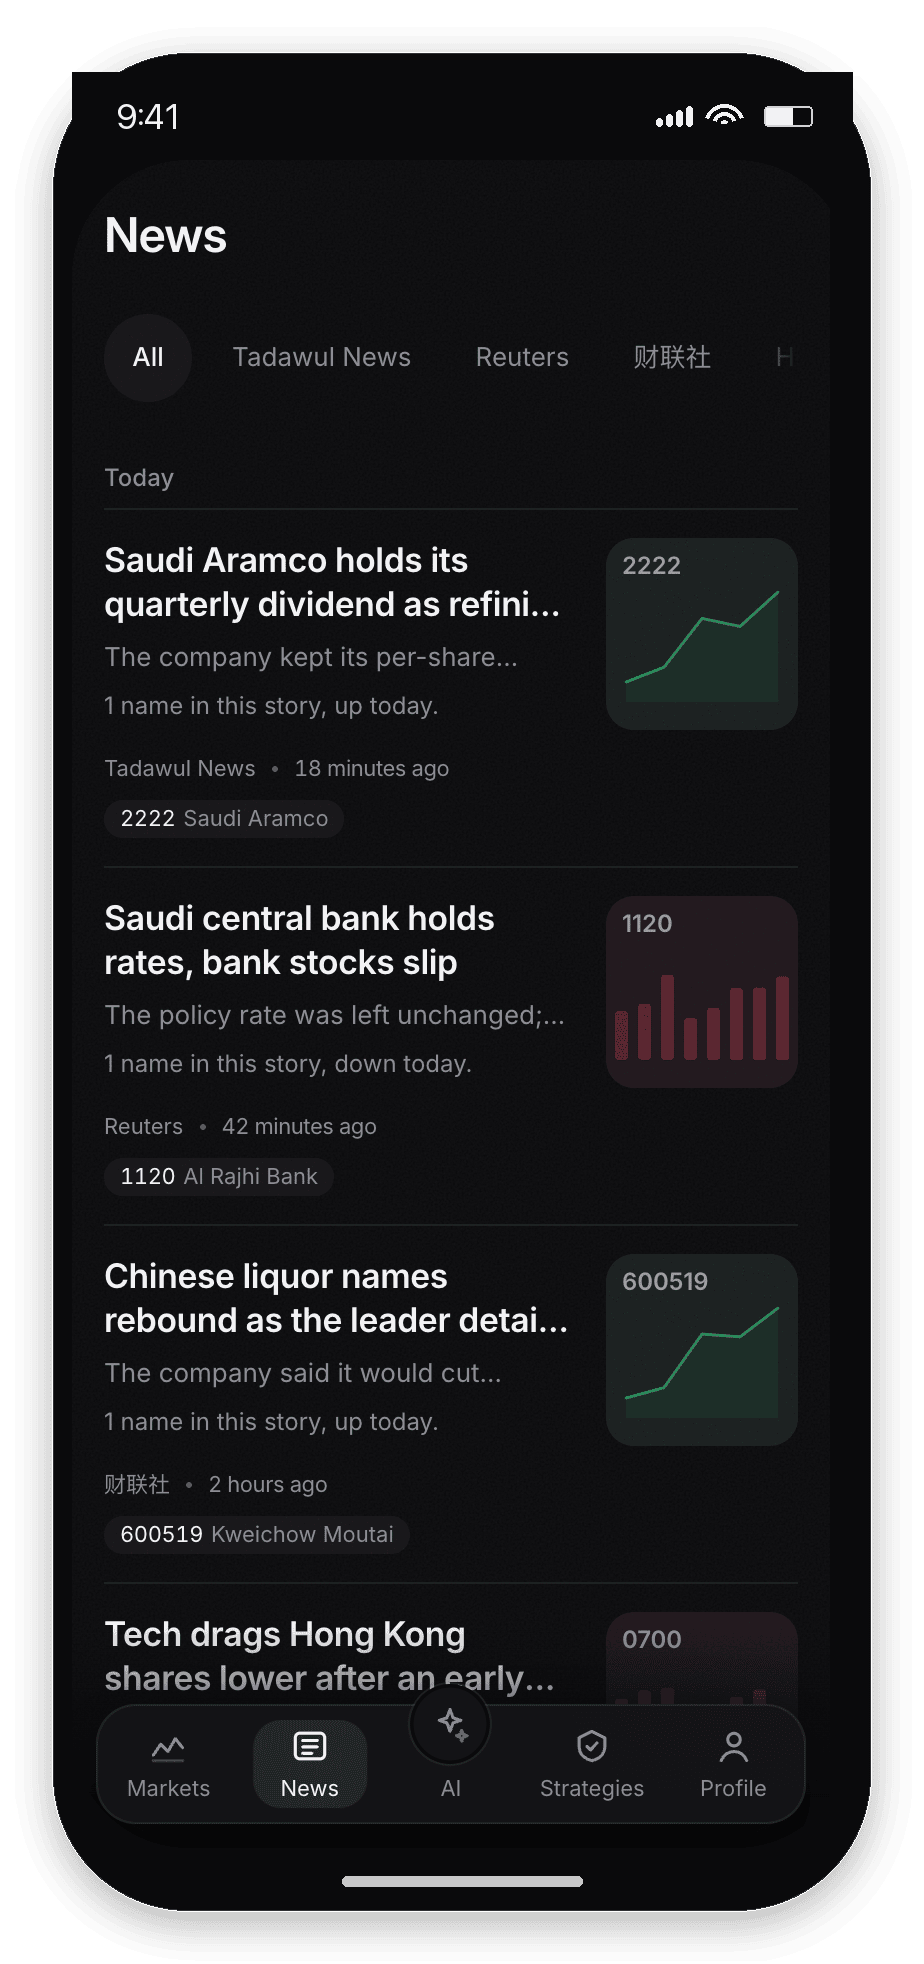
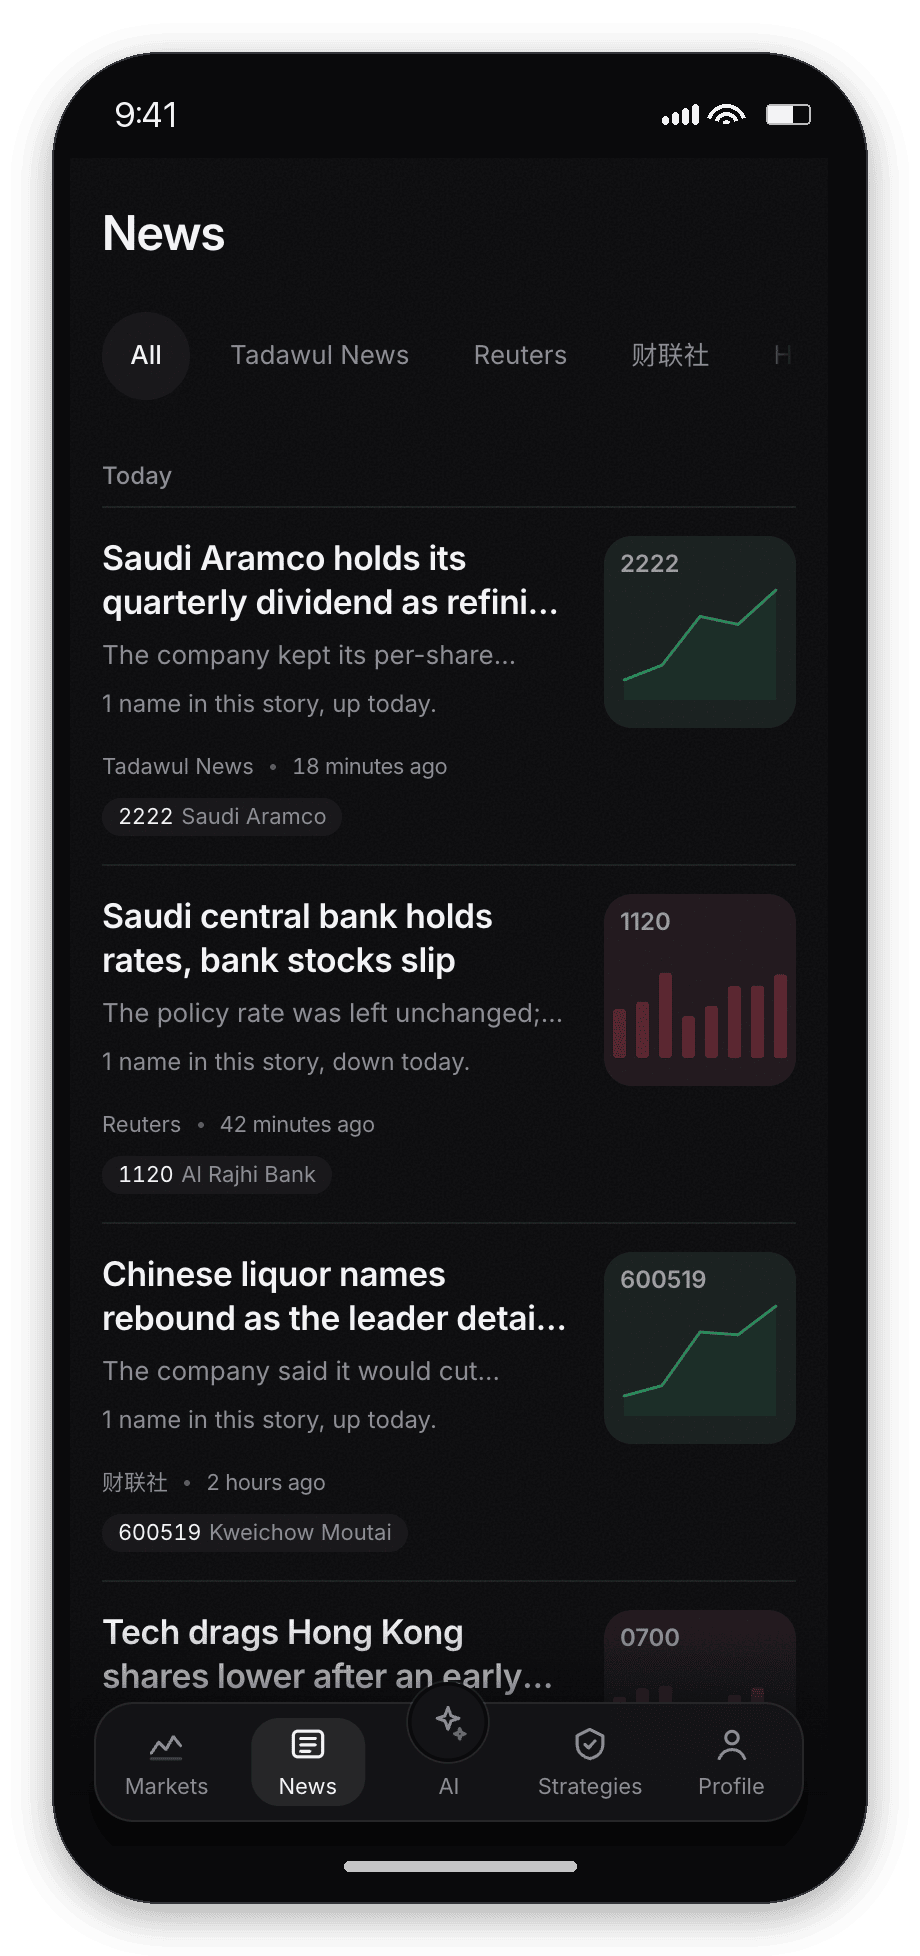
fix(docs): clip the screen by the phone's silhouette, not its own mask
INTENDED
- The screen was pasted with a screen-shaped mask whose corner radius (58pt) was
  smaller than the frame's inner radius, so four square nubs stuck out past the
  body: the screenshots read as a rectangle jammed into a phone.

ACTUAL
- `web/scripts/frame.py` now draws body, status bar and screen as layers and then
  multiplies all of them by one rounded silhouette, so nothing can sit outside
  the phone whatever the radii are. Body radius 54pt, screen square-cornered and
  clipped by that silhouette.
- Regenerated all nine shots at 920x1956.

VERIFIED
- For every image: alpha at all four corners 0; across the whole area outside the
  silhouette there are 0 pixels brighter than 40 (only the shadow is out there,
  and it is black) on both a dark and the light capture.
- Screen content still reaches the bottom edge, so the floating tab bar is not
  clipped by the corner rounding.

diff --git a/web/scripts/frame.py b/web/scripts/frame.py
@@ -6,38 +6,32 @@ from PIL import Image, ImageDraw, ImageFilter, ImageFont
 """
 Wrap a raw 390x844 @2x capture in a phone body.
 
-The README shows a mobile app, so the images should read as phones: rounded
-screen, a bezel, a status bar with the clock and the battery, a home indicator
-and a shadow. Everything here is drawn, not photographed, so the same script
-reproduces the set on any machine.
+One rule makes the result correct: **everything is clipped by one silhouette.**
+The first version pasted the screen onto the body with a *screen-shaped* mask, so
+the screen's corners were less rounded than the frame's inner corners and four
+square nubs poked out past the body. Now the body, the status bar and the screen
+are all drawn as layers and then multiplied by the same rounded mask, so nothing
+can sit outside the phone no matter how the numbers change.
 
-Run after `screenshots.mjs`; it reads `docs/screenshots/raw/*.png`.
+Run after `screenshots.mjs`; reads `docs/screenshots/raw/*.png`.
 """
 
 ROOT = Path(__file__).resolve().parents[2]
 SOURCE = ROOT / "docs" / "screenshots" / "raw"
 TARGET = ROOT / "docs" / "screenshots"
 
-SCALE = 2  # the captures are 2x
+SCALE = 2  # captures are 2x
 
-# Geometry in points, multiplied by SCALE when drawn.
-BEZEL = 10
-SCREEN_RADIUS = 58
-STATUS_H = 44
-INDICATOR_H = 22
+BEZEL = 9  # points of frame around the screen
+BODY_RADIUS = 54  # outer corner radius, points
+STATUS_H = 44  # device status bar, points
+INDICATOR_H = 20  # strip under the screen for the home indicator
 SHADOW = 26
 
 BODY = (10, 10, 12, 255)
-BODY_EDGE = (46, 46, 52, 255)
-STATUS_BG = (10, 10, 12, 255)
-FS = None
-
-
-def dims(screen: Image.Image):
-    w, h = screen.size
-    inner_w = w + 2 * BEZEL * SCALE
-    inner_h = h + (STATUS_H + INDICATOR_H + 2 * BEZEL) * SCALE
-    return inner_w, inner_h
+BODY_EDGE = (52, 52, 58, 255)
+CHROME = (10, 10, 12, 255)
+INK = (245, 245, 248, 255)
 
 
 def font(size: int):
@@ -54,93 +48,104 @@ def font(size: int):
     return ImageFont.load_default(size=size)
 
 
-def rounded(size, radius, fill):
+def rounded_mask(size, radius):
+    layer = Image.new("L", size, 0)
+    ImageDraw.Draw(layer).rounded_rectangle([0, 0, size[0] - 1, size[1] - 1], radius, fill=255)
+    return layer
+
+
+def draw_chrome(size, body_w, status_top, status_h):
+    """Status bar: clock on the left, signal, wifi and battery on the right."""
     layer = Image.new("RGBA", size, (0, 0, 0, 0))
-    ImageDraw.Draw(layer).rounded_rectangle([0, 0, size[0] - 1, size[1] - 1], radius, fill=fill)
+    d = ImageDraw.Draw(layer)
+    d.rectangle([BEZEL * SCALE, status_top, body_w - BEZEL * SCALE, status_top + status_h], fill=CHROME)
+    d.text(
+        (BEZEL * SCALE + 22 * SCALE, status_top + status_h / 2),
+        "9:41",
+        font=font(17 * SCALE),
+        fill=INK,
+        anchor="lm",
+    )
+    right, mid = body_w - BEZEL * SCALE - 20 * SCALE, status_top + status_h / 2
+    bar_w, gap = 3 * SCALE, 2 * SCALE
+    for index, height in enumerate((4, 6, 8, 10)):
+        x = right - 74 * SCALE + index * (bar_w + gap)
+        d.rounded_rectangle(
+            [x, mid + 5 * SCALE - height * SCALE, x + bar_w, mid + 5 * SCALE],
+            bar_w / 2,
+            fill=INK,
+        )
+    cx, cy = right - 42 * SCALE, mid + 5 * SCALE
+    for span in (10, 6, 2):
+        d.arc(
+            [cx - span * SCALE, cy - span * SCALE, cx + span * SCALE, cy + span * SCALE],
+            200,
+            340,
+            fill=INK,
+            width=2 * SCALE,
+        )
+    battery = [right - 22 * SCALE, mid - 5 * SCALE, right, mid + 5 * SCALE]
+    d.rounded_rectangle(battery, 2 * SCALE, outline=(230, 230, 236, 210), width=SCALE)
+    d.rectangle(
+        [battery[0] + SCALE, battery[1] + SCALE, battery[0] + 13 * SCALE, battery[3] - SCALE],
+        fill=INK,
+    )
     return layer
 
 
 def wrap(screen: Image.Image) -> Image.Image:
     w, h = screen.size
-    body_w, body_h = dims(screen)
-    radius = (SCREEN_RADIUS + BEZEL) * SCALE
+    body_w = w + 2 * BEZEL * SCALE
+    body_h = h + (STATUS_H + INDICATOR_H + 2 * BEZEL) * SCALE
+    silhouette = rounded_mask((body_w, body_h), BODY_RADIUS * SCALE)
 
-    body = rounded((body_w, body_h), radius, BODY)
-    edge = rounded((body_w, body_h), radius, None)
-    ImageDraw.Draw(edge).rounded_rectangle(
-        [0, 0, body_w - 1, body_h - 1], radius, outline=BODY_EDGE, width=2
-    )
-    body = Image.alpha_composite(body, edge)
+    body = Image.new("RGBA", (body_w, body_h), (0, 0, 0, 0))
+    body.paste(Image.new("RGBA", (body_w, body_h), BODY), (0, 0), silhouette)
 
-    # The status bar is device chrome, so it is drawn, not captured.
     status_top = BEZEL * SCALE
-    draw = ImageDraw.Draw(body)
-    draw.rounded_rectangle(
-        [0, 0, body_w - 1, body_h - 1], radius, outline=None
-    )
     status_h = STATUS_H * SCALE
-    draw.rectangle(
-        [BEZEL * SCALE, status_top, body_w - BEZEL * SCALE, status_top + status_h],
-        fill=STATUS_BG,
+    body = Image.alpha_composite(
+        body, _clip(draw_chrome(body.size, body_w, status_top, status_h), silhouette)
     )
 
-    clock = font(17 * SCALE)
-    draw.text(
-        (BEZEL * SCALE + 22 * SCALE, status_top + status_h / 2),
-        "9:41",
-        font=clock,
-        fill=(245, 245, 248, 255),
-        anchor="lm",
-    )
-
-    # Signal, wifi, battery: three shapes, no font dependency.
-    right = body_w - BEZEL * SCALE - 20 * SCALE
-    mid = status_top + status_h / 2
-    bar_w, gap = 3 * SCALE, 2 * SCALE
-    for index, height in enumerate((4, 6, 8, 10)):
-        x = right - 78 * SCALE + index * (bar_w + gap)
-        draw.rounded_rectangle(
-            [x, mid + 5 * SCALE - height * SCALE, x + bar_w, mid + 5 * SCALE],
-            bar_w / 2,
-            fill=(240, 240, 245, 255),
-        )
-    wifi_cx, wifi_cy = right - 44 * SCALE, mid + 4 * SCALE
-    for span in (10, 6, 2):
-        draw.arc(
-            [wifi_cx - span * SCALE, wifi_cy - span * SCALE, wifi_cx + span * SCALE, wifi_cy + span * SCALE],
-            200,
-            340,
-            fill=(240, 240, 245, 255),
-            width=2 * SCALE,
-        )
-    battery = [right - 24 * SCALE, mid - 5 * SCALE, right, mid + 5 * SCALE]
-    draw.rounded_rectangle(battery, 2 * SCALE, outline=(240, 240, 245, 200), width=1 * SCALE)
-    draw.rectangle([battery[0] + SCALE, battery[1] + SCALE, battery[0] + 14 * SCALE, battery[3] - SCALE], fill=(240, 240, 245, 255))
-
+    # The screen is square-cornered and then clipped by the same silhouette, so
+    # its corners can never be less round than the frame's.
     screen_top = status_top + status_h
-    mask = rounded((w, h), SCREEN_RADIUS * SCALE, (255, 255, 255, 255))
-    body.paste(screen, (BEZEL * SCALE, screen_top), mask)
+    body.paste(screen, (BEZEL * SCALE, screen_top))
 
-    # Home indicator, over the 12pt gap under the floating tab bar.
-    draw = ImageDraw.Draw(body)
-    ind_w, ind_h = 120 * SCALE, 5 * SCALE
-    ind_y = body_h - BEZEL * SCALE - 8 * SCALE
-    draw.rounded_rectangle(
+    # Home indicator, in the strip under the screen, over the frame colour.
+    d = ImageDraw.Draw(body)
+    ind_w, ind_h = 116 * SCALE, 5 * SCALE
+    ind_y = screen_top + h + (INDICATOR_H * SCALE - ind_h) / 2
+    d.rounded_rectangle(
         [(body_w - ind_w) / 2, ind_y, (body_w + ind_w) / 2, ind_y + ind_h],
         ind_h / 2,
-        fill=(235, 235, 240, 120),
+        fill=(236, 236, 242, 110),
     )
 
-    canvas = Image.new("RGBA", (body_w + 2 * SHADOW * SCALE, body_h + 2 * SHADOW * SCALE), (0, 0, 0, 0))
-    shadow = Image.new("RGBA", canvas.size, (0, 0, 0, 0))
-    shadow.paste(
-        rounded((body_w, body_h), radius, (0, 0, 0, 140)),
-        (SHADOW * SCALE, SHADOW * SCALE + 6 * SCALE),
-        rounded((body_w, body_h), radius, (0, 0, 0, 140)),
+    body.putalpha(Image.composite(body.getchannel("A"), Image.new("L", body.size, 0), silhouette))
+
+    edge = Image.new("RGBA", body.size, (0, 0, 0, 0))
+    ImageDraw.Draw(edge).rounded_rectangle(
+        [0, 0, body_w - 1, body_h - 1], BODY_RADIUS * SCALE, outline=BODY_EDGE, width=2
     )
+    edge.putalpha(Image.composite(edge.getchannel("A"), Image.new("L", body.size, 0), silhouette))
+    body = Image.alpha_composite(body, edge)
+
+    pad = SHADOW * SCALE
+    canvas = Image.new("RGBA", (body_w + 2 * pad, body_h + 2 * pad), (0, 0, 0, 0))
+    shadow = Image.new("RGBA", canvas.size, (0, 0, 0, 0))
+    blob = Image.new("RGBA", body.size, (0, 0, 0, 0))
+    blob.paste(Image.new("RGBA", body.size, (0, 0, 0, 150)), (0, 0), silhouette)
+    shadow.paste(blob, (pad, pad + 6 * SCALE), blob)
     canvas = Image.alpha_composite(canvas, shadow.filter(ImageFilter.GaussianBlur(10 * SCALE)))
-    canvas.paste(body, (SHADOW * SCALE, SHADOW * SCALE), body)
+    canvas.paste(body, (pad, pad), body)
     return canvas
+
+
+def _clip(layer: Image.Image, mask: Image.Image) -> Image.Image:
+    layer.putalpha(Image.composite(layer.getchannel("A"), Image.new("L", layer.size, 0), mask))
+    return layer
 
 
 def main():
@@ -152,7 +157,6 @@ def main():
             framed = wrap(screen.convert("RGBA"))
         out = TARGET / f"phone-{path.stem}.png"
         framed.save(out, optimize=True)
-        # Quantise in place; alpha edges survive at 70-90 quality.
         subprocess.run(
             ["pngquant", "--quality=70-92", "--speed", "1", "--force", "--output", str(out), str(out)],
             check=False,
